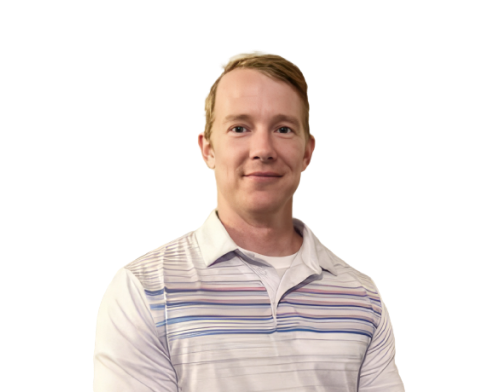
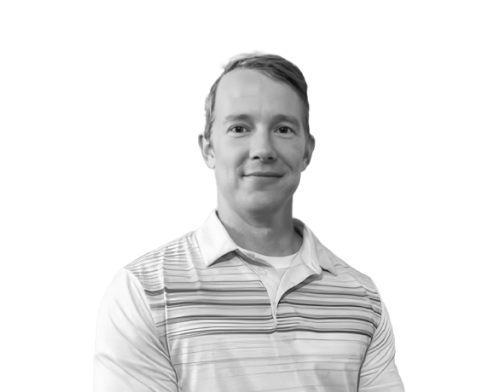
fix issues

Changed region(s): [[0.3971, 0.1224, 0.6415, 0.6735], [0.3055, 0.7347, 0.7637, 0.8571]]

diff --git a/src/components/sections/About.js b/src/components/sections/About.js
@@ -5,7 +5,7 @@ import { GLOBAL_CONST } from "@/constance";
 import { useResize } from "@/hooks";
 
 const About = () => {
-  const maskRef = useRef(null);
+  const avatarRef = useRef(null);
   const nameRef = useRef(null);
   const captionRef = useRef(null);
   const rectRef_1 = useRef(null);
@@ -55,23 +55,21 @@ const About = () => {
         ease: "power1.inOut",
         strokeDashoffset: 0,
       })
-      .to(maskRef.current, {
-        duration: 3,
-        "--mask-rad": 45,
-        "--mask-start": 0,
-        "--mask-end": 100,
-        ease: "power1.inOut",
-      })
       .to(
-        vectorRef.current,
+        avatarRef.current,
         {
-          opacity: 1,
-          scale: 1.1,
-          duration: 3,
-          ease: "power1.inOut",
+          scale: 1,
+          duration: 5,
+          ease: "power1.out",
         },
         "<"
-      );
+      )
+      .to(vectorRef.current, {
+        opacity: 1,
+        scale: 1.1,
+        duration: 3,
+        ease: "power1.inOut",
+      });
 
     tl_2
       .to(captionRef.current, {
@@ -132,23 +130,16 @@ const About = () => {
           className="w-full h-full scale-125 absolute -z-10 object-cover opacity-0"
         />
         <div className="h-[80%] aspect-square overflow-hidden z-index-1 relative">
-          <div
-            ref={maskRef}
-            className="w-full h-full absolute left-0 right-0 bottom-0 top-0 z-10 [--mask-start:50] [--mask-end:50] [--mask-rad:0]"
-            style={{
-              backgroundImage:
-                "linear-gradient(calc(var(--mask-rad) * 1deg), var(--black) calc(var(--mask-start) * 1%), transparent 0, transparent calc(var(--mask-end) * 1%), var(--black) 0)",
-            }}
-          />
           <img
+            ref={avatarRef}
             src="./avatar.png"
             alt="Ryan Stewart"
-            className="w-full h-full object-cover bg-black grayscale"
+            className="w-full h-full object-cover bg-black scale-125"
           />
           <svg className="w-full h-full absolute top-0 left-0 right-0 bottom-0 z-30">
             <rect
               ref={rectRef_2}
-              className="w-full h-full fill-none stroke-[5] stroke-gray"
+              className="w-full h-full fill-none stroke-[5] stroke-yellow"
             />
           </svg>
         </div>

diff --git a/src/components/elements/Header.js b/src/components/elements/Header.js
@@ -5,9 +5,10 @@ import { GLOBAL_CONST } from "@/constance";
 import { useEffect, useRef } from "react";
 
 const Header = () => {
-  const { linkedin } = GLOBAL_CONST;
+  const { linkedin, github } = GLOBAL_CONST;
   const nameRef = useRef(null);
-  const linkRef = useRef(null);
+  const linkRef_1 = useRef(null);
+  const linkRef_2 = useRef(null);
 
   useEffect(() => {
     const tl = gsap.timeline();
@@ -17,16 +18,27 @@ const Header = () => {
       duration: 2,
       stagger: 0.2,
       ease: "back.inOut",
-    }).to(
-      linkRef.current.children,
-      {
-        opacity: 1,
-        duration: 2,
-        stagger: 0.2,
-        ease: "back.inOut",
-      },
-      "<"
-    );
+    })
+      .to(
+        linkRef_1.current.children,
+        {
+          opacity: 1,
+          duration: 2,
+          stagger: 0.2,
+          ease: "back.inOut",
+        },
+        "<"
+      )
+      .to(
+        linkRef_2.current.children,
+        {
+          opacity: 1,
+          duration: 2,
+          stagger: 0.2,
+          ease: "back.inOut",
+        },
+        "<"
+      );
 
     return () => {
       tl.kill();
@@ -34,7 +46,7 @@ const Header = () => {
   }, []);
 
   return (
-    <header className="lg:portrait:em:text-5xl lg:portrait:em:py-6  flex items-center justify-between em:py-8 font-caption em:text-xl absolute left-0 right-0 overflow-hidden">
+    <header className="lg:portrait:em:text-5xl lg:portrait:em:py-6  flex items-center em:py-8 font-caption em:text-xl absolute left-0 right-0 overflow-hidden">
       <div ref={nameRef}>
         {"Ryan".split("").map((l, index) => (
           <span key={index} className="opacity-0">
@@ -42,7 +54,19 @@ const Header = () => {
           </span>
         ))}
       </div>
-      <Link ref={linkRef} href={linkedin} target="_blank">
+      <Link
+        target="_blank"
+        ref={linkRef_1}
+        className="ml-auto em:mr-12"
+        href={github}
+      >
+        {"GitHub".split("").map((l, index) => (
+          <span key={index} className="opacity-0">
+            {l}
+          </span>
+        ))}
+      </Link>
+      <Link target="_blank" href={linkedin} ref={linkRef_2}>
         {"LinkedIn".split("").map((l, index) => (
           <span key={index} className="opacity-0">
             {l}

diff --git a/src/components/sections/Experiences.js b/src/components/sections/Experiences.js
@@ -118,11 +118,11 @@ const Experiences = () => {
             <li
               onClick={onSelectItem.bind(null, id)}
               key={id}
-              className={cn("group flex flex-col relative group", {
+              className={cn("group hover:text-yellow flex flex-col relative", {
                 "em:pt-20": index >= 1,
               })}
             >
-              <div className="hover-effect w-1/2 h-1/4 blur-[100px]" />
+              <div className="hover-effect w-1/2 h-1/4 blur-[70px]" />
               <h3
                 className="em:text-6xl opacity-0 will-change-transform"
                 id="experiencesTitle"
@@ -146,9 +146,7 @@ const Experiences = () => {
                 )}
               >
                 {description.map(({ id, text }) => (
-                  <p className={cn()} key={id}>
-                    {text}
-                  </p>
+                  <p key={id}>{text}</p>
                 ))}
               </div>
             </li>

diff --git a/src/constance/GLOBAL_CONST.js b/src/constance/GLOBAL_CONST.js
@@ -1,4 +1,5 @@
 const GLOBAL_CONST = {
+  github: "https://github.com/RyanMStewart",
   linkedin: "https://www.linkedin.com/in/ryan-michael-stewart/",
   description:
     "continually fueling my own growth is what drives me. I've found my sweet spot in team environments, where I channel my natural flair for software development.\nI pour heart and soul into my craft, injecting creativity into every logical problem that comes my way.I'm a software maestro fluent in a symphony of languages,\nbut Swift and Go are the stars of the show. But hey, I'm no one-trick pony! With substantial hands-on experience of over 5 years with React, and Ruby on Rails under my belt,\nI also boast of a Ruby Association Certification which solidifies my prowess in Ruby.",

diff --git a/src/components/elements/Footer.js b/src/components/elements/Footer.js
@@ -67,12 +67,15 @@ const Footer = () => {
   }, [orientation]);
 
   return (
-    <footer ref={containerRef} className="h-screen flex items-center">
+    <footer
+      ref={containerRef}
+      className="group hover:text-yellow h-screen flex items-center relative"
+    >
+      <div className="hover-effect w-full h-1/2 blur-[150px] z-50" />
       <Link
         href={linkedin}
-        className="group relative w-full h-[32em] flex items-center justify-center overflow-hidden"
+        className=" relative w-full h-[32em] flex items-center justify-center overflow-hidden"
       >
-        <div className="hover-effect w-full h-1/2 blur-[150px] " />
         <svg className="w-full h-full absolute">
           <rect
             ref={rectRef_1}

diff --git a/src/components/sections/Education.js b/src/components/sections/Education.js
@@ -44,8 +44,8 @@ const Education = () => {
         scrollTrigger: {
           scrub: 1.2,
           trigger: element,
-          start: "-20% center",
-          end: "130% center",
+          start: "-50% center",
+          end: "center center",
         },
       });
 
@@ -57,11 +57,11 @@ const Education = () => {
 
       tl.to(title, {
         opacity: 1,
-        duration: 3,
+        duration: 2,
         ease: "power1.out",
       }).to([date, caption], {
         y: 0,
-        duration: 3,
+        duration: 8,
         stagger: 0.5,
         ease: "power1.out",
       });

diff --git a/src/pages/_app.js b/src/pages/_app.js
@@ -20,7 +20,7 @@ function App({ Component, pageProps }) {
 
   useEffect(() => {
     const lenis = new Lenis({
-      duration: 3,
+      duration: 6,
       smoothWheel: true,
       easing: (t) => Math.min(1, 1 - Math.pow(1 - t, 4)),
     });
